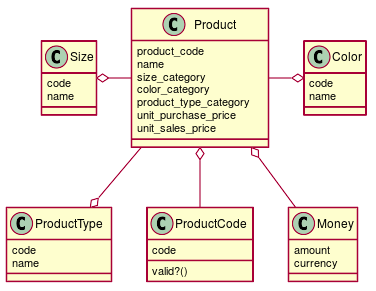
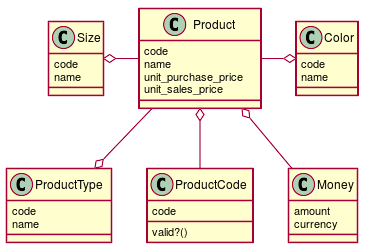
商品モデルの実装 #EFROR-77
・分類を汎化した商品モデル

diff --git a/docs/dev/sales_modeling/type2_product_.md b/docs/dev/sales_modeling/type2_product_.md
@@ -7,15 +7,15 @@ SalesModeling
 ## 分析モデル
   
 
-![](assets/18ea6da402e4324333324e00d3b39f9d0.png?0.5839159950701984)  
+![](assets/18ea6da402e4324333324e00d3b39f9d0.png?0.7524143861890831)  
 ## 設計モデル
   
 
-![](assets/18ea6da402e4324333324e00d3b39f9d1.png?0.3822151868581143)  
+![](assets/18ea6da402e4324333324e00d3b39f9d1.png?0.7078175748980979)  
 ## ERモデル
   
 
-![](assets/18ea6da402e4324333324e00d3b39f9d2.png?0.5856196700603202)  
+![](assets/18ea6da402e4324333324e00d3b39f9d2.png?0.8658322270622811)  
 `Product`
 ```rb
 # == Schema Information
@@ -71,6 +71,48 @@ class SalesModeling::Type2::Product < ApplicationRecord
   def unit_sales_price=(money)
     self.unit_sales_price_amount = money.amount
     self.unit_sales_price_currency = money.currency
+  end
+  
+  def size
+    @size ||= SalesModeling::Type2::Size.new(self.size_category.code, self.size_category.name)
+  end
+  
+  def size=(size)
+    size = SalesModeling::Type2::Category.where(
+        sales_modeling_type2_category_class_id:self.size_category.sales_modeling_type2_category_class.id,
+        code:size.code,
+        name:size.name
+    ).first_or_create
+  
+    self.size_category = size
+  end
+  
+  def color
+    @color ||= SalesModeling::Type2::Color.new(self.color_category.code, self.color_category.name)
+  end
+  
+  def color=(color)
+    color = SalesModeling::Type2::Category.where(
+        sales_modeling_type2_category_class_id:self.color_category.sales_modeling_type2_category_class.id,
+        code:color.code,
+        name:color.name
+    ).first_or_create
+  
+    self.color_category = color
+  end
+  
+  def type
+    @type ||= SalesModeling::Type2::ProductType.new(self.product_type_category.code, self.product_type_category.name)
+  end
+  
+  def type=(type)
+    type = SalesModeling::Type2::Category.where(
+        sales_modeling_type2_category_class_id:self.product_type_category.sales_modeling_type2_category_class.id,
+        code:type.code,
+        name:type.name
+    ).first_or_create
+  
+    self.product_type_category = type
   end
 end
   
